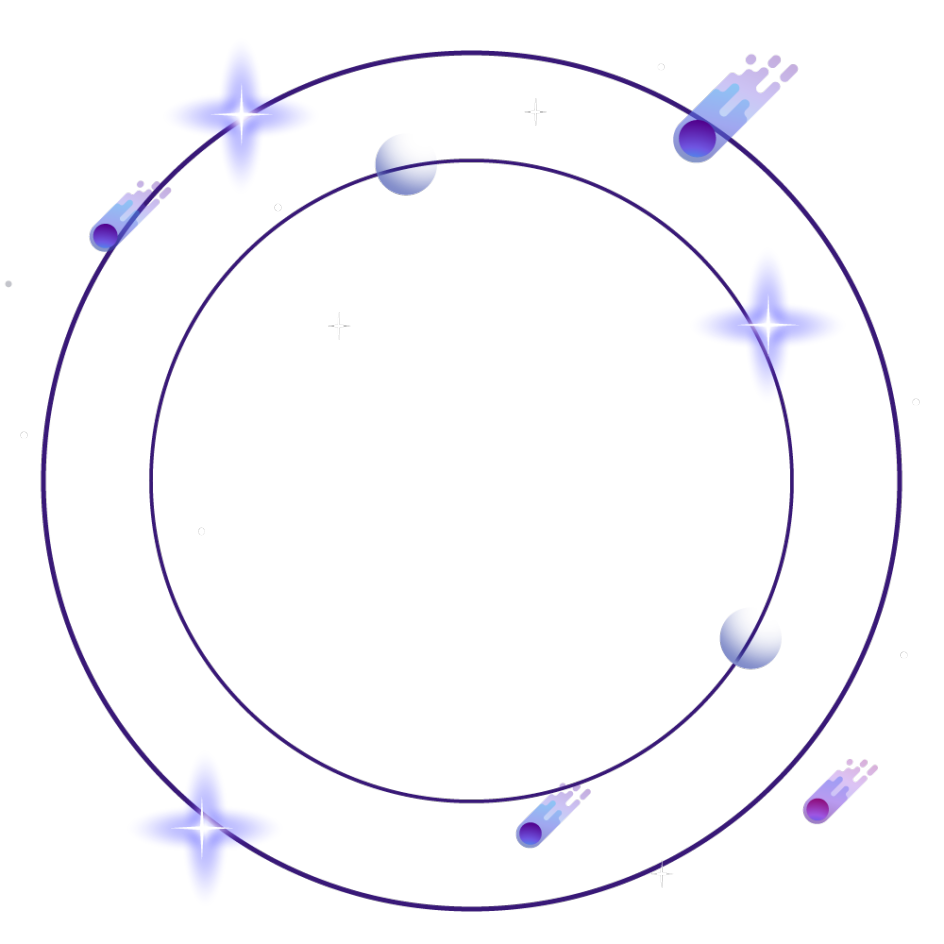
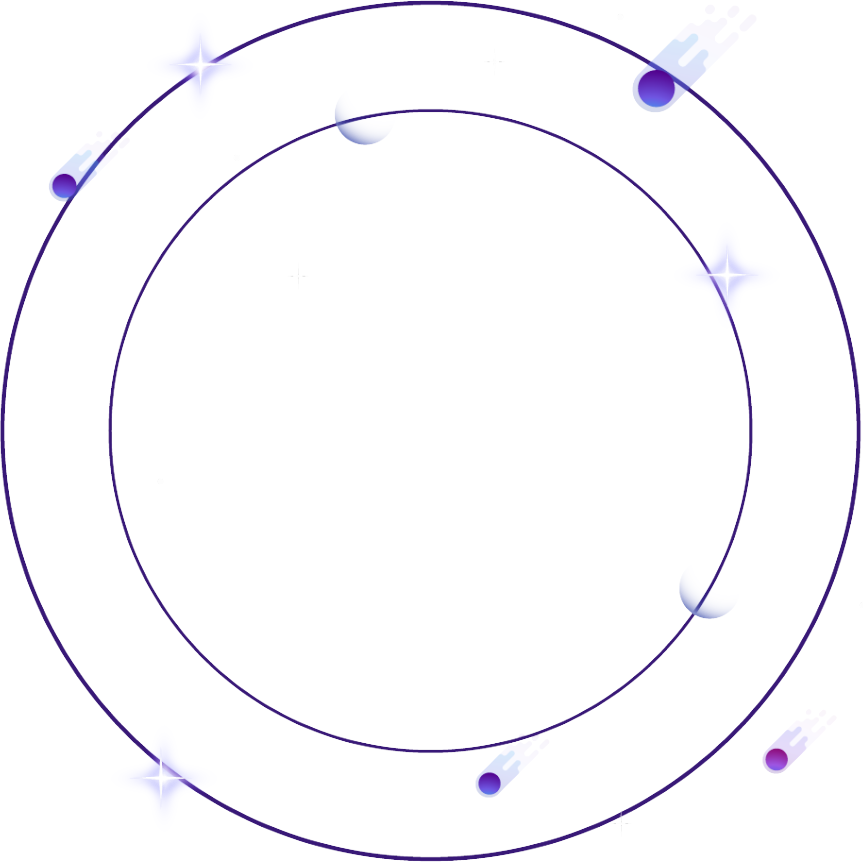
create animation, add information side

diff --git a/components/hero.tsx b/components/hero.tsx
@@ -1,75 +1,134 @@
 "use client"
 
-import React, { useEffect, useRef } from "react"
+import React, { useEffect, useRef, useState } from "react"
 import Image from "next/image"
+import Link from "next/link"
 import astronaut from "@/public/images/hero/astronaut.png"
 import bg_code from "@/public/images/hero/bg-code.png"
 import js from "@/public/images/hero/js-planet.png"
 import orbit from "@/public/images/hero/orbit.png"
+import python from "@/public/images/hero/python-planet.png"
+import react from "@/public/images/hero/react-planet.png"
 import { motion } from "framer-motion"
 
+import { Button, buttonVariants } from "./ui/button"
+
+const planets = [
+  { name: "JavaScript", image: js },
+  { name: "python", image: python },
+  { name: "react", image: react },
+]
+
+const programs = [
+  { url: "#", title: "უფასო კურსები" },
+  { url: "#", title: "სასწავლო პროგრამები" },
+  { url: "#", title: "აიყვანე პირადი მენტორი" },
+]
+
 export default function Hero() {
-  const planetRef = useRef<HTMLDivElement | null>(null)
+  const planetRefs = useRef(
+    planets.map(() => React.createRef<HTMLDivElement>())
+  )
   const parentDivRef = useRef<HTMLDivElement | null>(null)
 
   useEffect(() => {
     const parentDiv = parentDivRef.current
-    const planet = planetRef.current
 
-    if (!parentDiv || !planet) {
+    if (!parentDiv) {
       return
     }
 
     const radius = parentDiv.offsetWidth / 2
 
     const orbitAnimation = () => {
-      const speed = 0.001 // Adjust the speed as needed
+      const speed = 0.0001 // Adjust the speed as needed
       const angle = performance.now() * speed
+      const rotationAngle = angle
 
-      const x = Math.cos(angle) * radius
-      const y = Math.sin(angle) * radius
+      planets.forEach((planet, index) => {
+        const planetRef = planetRefs.current[index]
 
-      planet.style.transform = `translate(-44%, -52%) translate(${x}px, ${y}px)`
+        if (planetRef && planetRef.current) {
+          const x =
+            Math.cos(angle + (index * Math.PI * 2) / planets.length) * radius
+          const y =
+            Math.sin(angle + (index * Math.PI * 2) / planets.length) * radius
+
+          const distanceFromCenter = Math.sqrt(x ** 2 + y ** 2)
+
+          if (distanceFromCenter <= radius) {
+            planetRef.current.style.transform = `translate(-50%, -50%) translate(${x}px, ${y}px) rotate(${rotationAngle}rad)`
+          }
+        }
+      })
 
       requestAnimationFrame(orbitAnimation)
     }
 
     orbitAnimation()
-  }, [parentDivRef, planetRef])
+  }, [parentDivRef, planetRefs])
 
   return (
     <div className="relative -mt-16 h-screen">
       <Image
         src={bg_code}
         alt="background"
-        className="absolute top-20 -mt-16 h-screen w-full opacity-25"
+        className="absolute -z-10 -mt-24 opacity-25"
       />
-      <div className="h-5/12 absolute right-0 top-1/2 w-5/12 -translate-y-1/2 rounded-full bg-red-300 ">
-        <div className="relative">
-          <div
-            ref={parentDivRef}
-            className="relative z-10 rounded-full bg-blue-200"
-          >
-            <Image src={orbit} alt="orbit" />
+      <div className="flex h-full">
+        <div className="flex w-1/2 flex-col justify-center">
+          <h1 className="text-[40px] font-bold">გინდა ისწავლო პროგრამირება?</h1>
+          <div className="flex flex-col gap-4">
+            {programs.map((program) => {
+              return (
+                <Link
+                  href={program.url}
+                  className={
+                    buttonVariants({ variant: "default" }) +
+                    " text-[19px] w-fit"
+                  }
+                >
+                  {program.title}
+                </Link>
+              )
+            })}
           </div>
+        </div>
+        <div className="flex w-1/2 justify-end self-center rounded-full">
+          <div className="relative flex w-9/12 items-center justify-center">
+            <div ref={parentDivRef} className="relative z-10 rounded-full ">
+              <Image src={orbit} alt="orbit" />
+            </div>
 
-          <motion.div
-            // transition={{ repeat: Infinity, duration: 10, ease: "linear" }}
-            className="absolute left-1/2 top-1/2 z-[99] w-1/3 -translate-x-1/2 -translate-y-1/2 "
-            ref={planetRef}
-          >
-            <Image src={js} alt="javascript planet" className="h-full w-full" />
-          </motion.div>
+            {planets.map((planet, index) => (
+              <motion.div
+                key={index}
+                transition={{ repeat: Infinity, duration: 10, ease: "linear" }}
+                className="absolute left-1/2 top-1/2 z-30 w-2/6 -translate-x-1/2 -translate-y-1/2 transition-all"
+                ref={planetRefs.current[index]}
+              >
+                <Image
+                  src={planet.image}
+                  alt={`${planet.name} planet`}
+                  className="h-full w-full"
+                />
+              </motion.div>
+            ))}
 
-          <motion.div
-            animate={{
-              y: [-3, 3, -3],
-            }}
-            transition={{ repeat: Infinity, duration: 6 }}
-            className="absolute top-0 z-30"
-          >
-            <Image src={astronaut} alt="astronaut" className="h-full w-full" />
-          </motion.div>
+            <motion.div
+              animate={{
+                y: [-3, 3, -3],
+              }}
+              transition={{ repeat: Infinity, duration: 6 }}
+              className="absolute top-0 z-30"
+            >
+              <Image
+                src={astronaut}
+                alt="astronaut"
+                className="h-full w-full"
+              />
+            </motion.div>
+          </div>
         </div>
       </div>
     </div>

diff --git a/app/(marketing)/page.tsx b/app/(marketing)/page.tsx
@@ -56,12 +56,12 @@ export default async function IndexPage() {
         className="container space-y-6 bg-slate-50 py-2 dark:bg-transparent md:py-2 lg:py-4"
       >
           <Hero />
-        <div className="mx-auto flex flex-col  space-y-4">
+        {/* <div className="mx-auto flex flex-col  space-y-4">
           <h2 className="inline-block font-heading text-3xl tracking-tight lg:text-5xl">
             ბლოგი
           </h2>
           <BlogComponent columns="2" postsLimit={2} random={true} />
-        </div>
+        </div> */}
         <Separator />
         <div className="mx-auto flex flex-col  space-y-4">
           <h2 className="font-heading text-3xl leading-[1.1] sm:text-3xl md:text-6xl">
